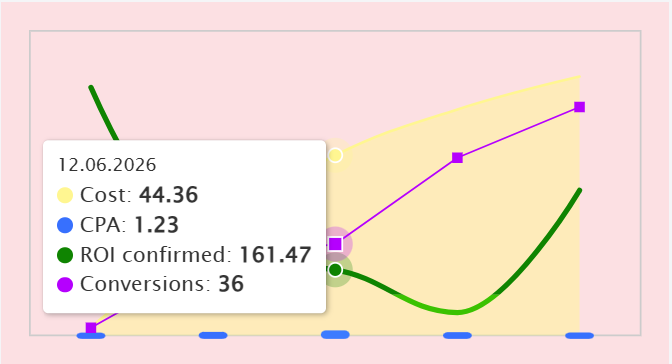
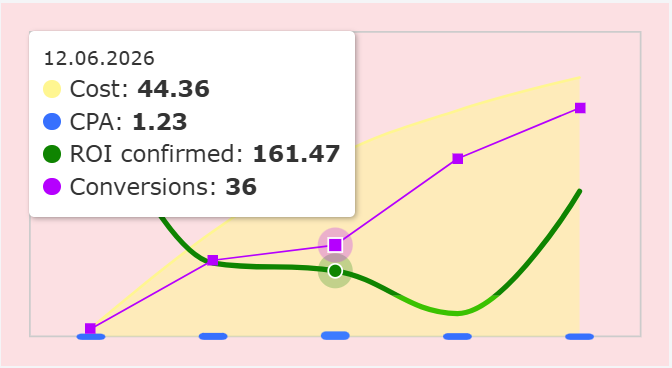
Improve fidelity, touch, keyboard and accessibility
- Tooltip text 13px with Verdana fallback so its size matches the recording
- Left-to-right reveal animation on first render (skipped for reduced motion / hidden tabs)
- Touch: tap shows the tooltip, tap outside hides it
- Keyboard: arrows/Home/End step through dates, Esc hides; aria-label and focus ring
- Pointer moves coalesced per animation frame; crisp square markers
- TypeScript declarations, more realistic random demo data

diff --git a/combo-chart.js b/combo-chart.js
@@ -17,10 +17,12 @@
     height: null,             // px. null → container height, or 175 if the container has none
     xSpacing: 'category',     // 'category' — equal steps between dates, 'time' — proportional to time
     utc: false,               // parse 'YYYY-MM-DD' strings and format dates in UTC
-    fontFamily: '"Lucida Grande", "Lucida Sans Unicode", Arial, Helvetica, sans-serif',
+    fontFamily: '"Lucida Grande", Verdana, "Lucida Sans Unicode", Arial, Helvetica, sans-serif',
     plotBorderColor: '#cccccc',
     plotBorderWidth: 1,
     cursor: 'pointer',
+    animation: { duration: 1000 }, // initial left-to-right reveal; false to disable
+    ariaLabel: null,          // accessible name; default is generated from series names
     yAxes: {},                // { <yAxis key>: { min, max } } — manual scale overrides
     tooltip: {
       enabled: true,
@@ -39,19 +41,20 @@
   };
 
   var CSS = [
-    '.cc-root{position:relative;width:100%;-webkit-tap-highlight-color:transparent;touch-action:pan-y}',
+    '.cc-root{position:relative;width:100%;-webkit-tap-highlight-color:transparent;touch-action:pan-y;outline:none}',
+    '.cc-root:focus-visible{box-shadow:0 0 0 2px #3770FE}',
     '.cc-svg{position:absolute;left:0;top:0;overflow:visible;display:block}',
     '.cc-graph{fill:none;stroke-linejoin:round;stroke-linecap:round;transition:stroke-width .25s ease}',
     '.cc-bar{transition:filter .15s ease}',
     '.cc-bar.cc-hover{filter:brightness(1.1)}',
     '.cc-tooltip{position:absolute;left:0;top:0;pointer-events:none;z-index:10;white-space:nowrap;',
-    'background:#fff;border-radius:3px;padding:8px;color:#333;font-size:12px;line-height:16px;',
+    'background:#fff;border-radius:3px;padding:8px;color:#333;font-size:13px;line-height:18px;',
     'box-shadow:1px 1px 3px rgba(0,0,0,.28),0 0 1px rgba(0,0,0,.12);opacity:0;visibility:hidden;',
     'transition:opacity .15s ease,visibility 0s linear .15s;will-change:transform}',
     '.cc-tooltip.cc-visible{opacity:1;visibility:visible;transition:opacity .15s ease,visibility 0s}',
-    '.cc-tt-date{font-size:10px;line-height:14px;margin-bottom:1px}',
-    '.cc-tt-row{display:flex;align-items:center;height:17px}',
-    '.cc-tt-dot{display:inline-block;width:9px;height:9px;border-radius:50%;margin-right:4px;flex:none}',
+    '.cc-tt-date{font-size:11px;line-height:15px;margin-bottom:1px}',
+    '.cc-tt-row{display:flex;align-items:center;height:18.5px}',
+    '.cc-tt-dot{display:inline-block;width:10px;height:10px;border-radius:50%;margin-right:5px;flex:none}',
     '.cc-tt-row b{font-weight:bold;margin-left:.3em}'
   ].join('');
 
@@ -262,6 +265,8 @@
     root.style.fontFamily = this.options.fontFamily;
     root.style.cursor = this.options.cursor;
     root.style.height = this.fluidHeight ? '100%' : (this.options.height || 175) + 'px';
+    root.tabIndex = 0;
+    root.setAttribute('role', 'img');
     this.container.appendChild(root);
 
     this.svg = el('svg', { 'class': 'cc-svg', xmlns: SVGNS }, root);
@@ -273,11 +278,33 @@
     this.ttPos = null;
     this.ttTarget = null;
 
-    this._onMove = function (e) { self._pointerMove(e); };
-    this._onLeave = function () { self._pointerLeave(); };
+    // Pointer moves are coalesced to one hover update per animation frame.
+    this._onMove = function (e) {
+      self.lastPointer = { x: e.clientX, y: e.clientY };
+      if (self.moveRaf) return;
+      self.moveRaf = requestAnimationFrame(function () {
+        self.moveRaf = null;
+        if (self.lastPointer) self._pointerMove(self.lastPointer.x, self.lastPointer.y);
+      });
+    };
+    this._onDown = function (e) {
+      if (e.pointerType !== 'mouse') self._pointerMove(e.clientX, e.clientY);
+    };
+    // A finger lifting off fires pointerleave; keep the tooltip until the user taps elsewhere.
+    this._onLeave = function (e) {
+      if (e.pointerType !== 'touch') { self.lastPointer = null; self._pointerLeave(); }
+    };
+    this._onDocDown = function (e) {
+      if (!root.contains(e.target)) self._pointerLeave();
+    };
+    this._onKey = function (e) { self._keyDown(e); };
+    this._onBlur = function () { if (self.keyboardHover) self._pointerLeave(); };
     root.addEventListener('pointermove', this._onMove);
-    root.addEventListener('pointerdown', this._onMove);
+    root.addEventListener('pointerdown', this._onDown);
     root.addEventListener('pointerleave', this._onLeave);
+    root.addEventListener('keydown', this._onKey);
+    root.addEventListener('blur', this._onBlur);
+    document.addEventListener('pointerdown', this._onDocDown);
 
     if (typeof ResizeObserver !== 'undefined') {
       this.resizeObserver = new ResizeObserver(function () {
@@ -428,10 +455,44 @@
     });
 
     this.hoverLayer = el('g', { 'class': 'cc-hover-layer' }, svg);
+    this._animateIn(seriesLayer, defs);
+    this.root.setAttribute('aria-label', o.ariaLabel || this._ariaLabel());
     if (this.hover.index >= 0) {
       if (this.hover.index >= this.times.length) this._pointerLeave();
       else this._applyHover(true);
     }
+  };
+
+  // Reveals the series from left to right on the first render only.
+  ComboChart.prototype._animateIn = function (layer, defs) {
+    var anim = this.options.animation, self = this;
+    if (this.animated || !this.times.length) return;
+    this.animated = true;
+    var reduced = typeof matchMedia === 'function' && matchMedia('(prefers-reduced-motion: reduce)').matches;
+    // Background tabs pause requestAnimationFrame, which would leave the series clipped away.
+    if (!anim || !anim.duration || reduced || document.hidden) return;
+    var id = this.id + '-reveal', pad = 20, W = this.width, H = this.height;
+    var clip = el('clipPath', { id: id }, defs);
+    var rect = el('rect', { x: -pad, y: -pad, width: 0, height: H + pad * 2 }, clip);
+    layer.setAttribute('clip-path', 'url(#' + id + ')');
+    var start = performance.now(), duration = anim.duration;
+    function frame(now) {
+      self.revealRaf = null;
+      if (!rect.isConnected) return; // re-rendered meanwhile
+      var t = Math.min(1, (now - start) / duration);
+      rect.setAttribute('width', (W + pad * 2) * (1 - Math.pow(1 - t, 3)));
+      if (t < 1) self.revealRaf = requestAnimationFrame(frame);
+      else layer.removeAttribute('clip-path');
+    }
+    this.revealRaf = requestAnimationFrame(frame);
+  };
+
+  ComboChart.prototype._ariaLabel = function () {
+    var names = this.series.map(function (s) { return s.name; }).join(', ');
+    var n = this.times.length;
+    if (!n) return 'Chart: ' + names + ', no data';
+    return 'Chart: ' + names + ', ' + n + ' dates from ' + this._dateText(this.times[0]) + ' to ' +
+      this._dateText(this.times[n - 1]) + '. Use left and right arrow keys to read values.';
   };
 
   ComboChart.prototype._draw_area = function (s, g, axis) {
@@ -501,7 +562,7 @@
       var m = s.markerSize;
       s.points.forEach(function (p) {
         if (p.value === null) return;
-        el('rect', { x: p.x - m / 2, y: p.y - m / 2, width: m, height: m, fill: s.color }, g);
+        el('rect', { x: Math.round(p.x - m / 2), y: Math.round(p.y - m / 2), width: m, height: m, fill: s.color }, g);
       });
     }
   };
@@ -513,11 +574,12 @@
 
   // ---------- interaction ----------
 
-  ComboChart.prototype._pointerMove = function (e) {
+  ComboChart.prototype._pointerMove = function (clientX, clientY) {
     if (!this.times.length || !this.scales) return;
     var rect = this.root.getBoundingClientRect();
-    var mx = e.clientX - rect.left, my = e.clientY - rect.top;
+    var mx = clientX - rect.left, my = clientY - rect.top;
     if (mx < 0 || my < 0 || mx > this.width || my > this.height) return this._pointerLeave();
+    this.keyboardHover = false;
 
     var xs = this.scales.xs, index = 0, best = Infinity;
     for (var i = 0; i < xs.length; i++) {
@@ -543,10 +605,35 @@
       });
     }
 
-    var changed = index !== this.hover.index || hovered !== this.hover.series;
-    this.hover = { index: index, series: hovered, mx: mx, my: my };
+    this._setHover(index, hovered, mx, my);
+  };
+
+  ComboChart.prototype._setHover = function (index, series, mx, my) {
+    var changed = index !== this.hover.index || series !== this.hover.series;
+    this.hover = { index: index, series: series, mx: mx, my: my };
     if (changed) this._applyHover(false);
     if (this.options.tooltip.enabled) this._showTooltip(changed);
+  };
+
+  // Arrow keys step through dates, Home/End jump to the ends, Escape hides the tooltip.
+  ComboChart.prototype._keyDown = function (e) {
+    var n = this.times.length;
+    if (!n || !this.scales) return;
+    var index = this.hover.index, next;
+    if (e.key === 'ArrowRight') next = index < 0 ? 0 : Math.min(n - 1, index + 1);
+    else if (e.key === 'ArrowLeft') next = index < 0 ? n - 1 : Math.max(0, index - 1);
+    else if (e.key === 'Home') next = 0;
+    else if (e.key === 'End') next = n - 1;
+    else if (e.key === 'Escape') { this._pointerLeave(); return; }
+    else return;
+    e.preventDefault();
+    var sum = 0, count = 0;
+    this.series.forEach(function (s) {
+      var p = s.points[next];
+      if (p && p.value !== null) { sum += p.y; count++; }
+    });
+    this.keyboardHover = true;
+    this._setHover(next, null, this.scales.xs[next], count ? sum / count : this.height / 2);
   };
 
   ComboChart.prototype._pointerLeave = function () {
@@ -595,6 +682,11 @@
     return (s.valuePrefix || '') + v.toFixed(decimals) + (s.valueSuffix || '');
   };
 
+  ComboChart.prototype._dateText = function (time) {
+    var fmt = this.options.tooltip.dateFormat;
+    return fmt ? fmt(new Date(time)) : defaultDateFormat(new Date(time), this.options.utc, this.hasTime);
+  };
+
   ComboChart.prototype._tooltipHtml = function (index) {
     var self = this, o = this.options.tooltip, date = new Date(this.times[index]);
     var points = this.series.map(function (s) {
@@ -604,7 +696,7 @@
     if (typeof o.formatter === 'function') {
       return o.formatter({ date: date, time: this.times[index], index: index, points: points });
     }
-    var dateText = o.dateFormat ? o.dateFormat(date) : defaultDateFormat(date, this.options.utc, this.hasTime);
+    var dateText = this._dateText(this.times[index]);
     var html = '<div class="cc-tt-date">' + escapeHtml(dateText) + '</div>';
     points.forEach(function (p) {
       if (p.value === null) return;
@@ -663,10 +755,15 @@
   ComboChart.prototype.destroy = function () {
     clearTimeout(this.hideTimer);
     if (this.raf) cancelAnimationFrame(this.raf);
+    if (this.moveRaf) cancelAnimationFrame(this.moveRaf);
+    if (this.revealRaf) cancelAnimationFrame(this.revealRaf);
+    document.removeEventListener('pointerdown', this._onDocDown);
+    this.root.removeEventListener('keydown', this._onKey);
+    this.root.removeEventListener('blur', this._onBlur);
     if (this.resizeObserver) this.resizeObserver.disconnect();
     if (this._onResize) window.removeEventListener('resize', this._onResize);
     this.root.removeEventListener('pointermove', this._onMove);
-    this.root.removeEventListener('pointerdown', this._onMove);
+    this.root.removeEventListener('pointerdown', this._onDown);
     this.root.removeEventListener('pointerleave', this._onLeave);
     if (this.root.parentNode) this.root.parentNode.removeChild(this.root);
   };

diff --git a/combo-chart.d.ts b/combo-chart.d.ts
@@ -1,0 +1,98 @@
+export type TimeValue = number | string | Date;
+
+export type DataPoint =
+  | [TimeValue, number | null]
+  | { x?: TimeValue; time?: TimeValue; date?: TimeValue; t?: TimeValue; y?: number | null; value?: number | null; v?: number | null };
+
+export type SeriesType = 'area' | 'bar' | 'spline' | 'line';
+
+export interface BaseSeriesOptions {
+  name?: string;
+  color?: string;
+  data?: DataPoint[];
+  /** Series with the same key share a Y scale. Defaults: area 0, bar 0, spline 1, line 2. */
+  yAxis?: string | number;
+  decimals?: number;
+  valuePrefix?: string;
+  valueSuffix?: string;
+  valueFormatter?: (value: number) => string;
+}
+
+export interface AreaSeriesOptions extends BaseSeriesOptions {
+  lineWidth?: number;
+  hoverLineWidth?: number;
+  fillOpacity?: number;
+  smooth?: boolean;
+}
+
+export interface BarSeriesOptions extends BaseSeriesOptions {
+  widthRatio?: number;
+  maxWidth?: number;
+  radius?: number;
+  overhang?: number;
+}
+
+export interface SplineSeriesOptions extends BaseSeriesOptions {
+  lineWidth?: number;
+  hoverLineWidth?: number;
+  threshold?: number | null;
+  negativeColor?: string | null;
+}
+
+export interface LineSeriesOptions extends BaseSeriesOptions {
+  lineWidth?: number;
+  hoverLineWidth?: number;
+  markerSize?: number;
+}
+
+export type SeriesOptions =
+  | ({ type: 'area' } & AreaSeriesOptions)
+  | ({ type: 'bar' } & BarSeriesOptions)
+  | ({ type: 'spline' } & SplineSeriesOptions)
+  | ({ type: 'line' } & LineSeriesOptions);
+
+export interface TooltipPoint {
+  series: SeriesOptions;
+  name: string;
+  value: number | null;
+  color: string;
+}
+
+export interface TooltipOptions {
+  enabled?: boolean;
+  distance?: number;
+  hideDelay?: number;
+  dateFormat?: ((date: Date) => string) | null;
+  formatter?: ((ctx: { date: Date; time: number; index: number; points: TooltipPoint[] }) => string) | null;
+}
+
+export interface ComboChartOptions {
+  height?: number | null;
+  xSpacing?: 'category' | 'time';
+  utc?: boolean;
+  fontFamily?: string;
+  plotBorderColor?: string;
+  plotBorderWidth?: number;
+  cursor?: string;
+  animation?: false | { duration: number };
+  ariaLabel?: string | null;
+  yAxes?: Record<string, { min?: number; max?: number }>;
+  tooltip?: TooltipOptions;
+  series?: SeriesOptions[];
+  area?: AreaSeriesOptions | DataPoint[];
+  bar?: BarSeriesOptions | DataPoint[];
+  spline?: SplineSeriesOptions | DataPoint[];
+  line?: LineSeriesOptions | DataPoint[];
+}
+
+declare class ComboChart {
+  constructor(target: string | HTMLElement, options?: ComboChartOptions);
+  static create(target: string | HTMLElement, options?: ComboChartOptions): ComboChart;
+  setSeries(series: SeriesOptions[], redraw?: boolean): this;
+  setData(nameOrIndex: string | number, data: DataPoint[]): this;
+  update(options: ComboChartOptions): this;
+  render(): void;
+  destroy(): void;
+}
+
+export default ComboChart;

diff --git a/index.html b/index.html
@@ -24,7 +24,7 @@
 <body>
 <main>
   <h1>ComboChart</h1>
-  <p>Четыре временных ряда на одном графике: area, bar, spline, line. Наведите курсор на график.</p>
+  <p>Четыре временных ряда на одном графике: area, bar, spline, line. Наведите курсор на график, коснитесь его на телефоне или перейдите на него клавишей Tab и листайте даты стрелками ← →.</p>
 
   <h2>1. Как на записи</h2>
   <div class="cell"><div id="chart-reference"></div></div>
@@ -66,14 +66,16 @@ const chart = new ComboChart('#chart-reference', {
   function randomSeries(days) {
     const start = new Date(2026, 5, 1);
     const cost = [], cpa = [], roi = [], conv = [];
-    let c = 5, r = 300, n = 10;
+    const jitter = (amp) => (Math.random() - 0.5) * 2 * amp;
+    const phase = Math.random() * Math.PI * 2;
     for (let i = 0; i < days; i++) {
       const d = new Date(start.getFullYear(), start.getMonth(), start.getDate() + i);
-      c = Math.max(1, c + Math.random() * 6 - 1.5);
-      r = Math.max(10, r + (Math.random() - 0.5) * 180);
-      n = Math.max(0, Math.round(n + (Math.random() - 0.4) * 12));
+      // Cumulative-looking cost and conversions, CPA derived from them, ROI oscillating around 100%+
+      const c = Math.max(1, 2 + i * 2.1 + jitter(3));
+      const n = Math.max(1, Math.round(3 + i * 2.8 + jitter(6)));
+      const r = Math.max(20, 220 + 170 * Math.sin(i / 3.5 + phase) + jitter(40));
       cost.push([d, +c.toFixed(2)]);
-      cpa.push([d, +(c / Math.max(n, 1)).toFixed(2)]);
+      cpa.push([d, +(c / n).toFixed(2)]);
       roi.push([d, +r.toFixed(2)]);
       conv.push([d, n]);
     }

diff --git a/README.md b/README.md
@@ -11,11 +11,14 @@
 
 ![preview](docs/preview.png)
 
-- Чистый JS + SVG, **без зависимостей**, один файл `combo-chart.js` (~28 КБ, без минификации).
+- Чистый JS + SVG, **без зависимостей**, один файл `combo-chart.js` (~34 КБ без минификации).
 - Общий тултип для всех рядов: дата, цветные точки, значения жирным; плавно «едет» за курсором, исчезает через 500 мс после ухода мыши.
 - Ховер: полупрозрачные ореолы на точках всех рядов под курсором, ближайший столбик подсвечивается. Когда курсор ближе всего к зелёной кривой, она становится тонкой (как на записи), иначе — толстая.
 - У каждого ряда своя шкала Y (кроме `bar`, который по умолчанию делит шкалу с `area`), осей и сетки нет — только рамка поля.
-- Резиновый: перерисовывается при изменении размера контейнера. Работает с мышью и тачем.
+- Резиновый: перерисовывается при изменении размера контейнера.
+- Появляется с анимацией слева направо (отключается, если в системе включено «уменьшить движение»).
+- Мышь, тач (тап показывает тултип, тап мимо — скрывает) и клавиатура: `Tab` на график, `←` `→` по датам, `Home`/`End`, `Esc`. Есть `aria-label` для скринридеров.
+- Типы для TypeScript: `combo-chart.d.ts`.
 
 ## Быстрый старт
 
@@ -132,7 +135,9 @@ function Chart({ cost, cpa, roi, conversions }) {
 | `height` | `null` | высота в px; `null` — высота контейнера или 175 |
 | `xSpacing` | `'category'` | `'category'` — равный шаг между датами (как на записи), `'time'` — пропорционально времени |
 | `utc` | `false` | разбирать `YYYY-MM-DD` и форматировать даты в UTC |
-| `fontFamily` | `"Lucida Grande", "Lucida Sans Unicode", Arial, Helvetica, sans-serif` | шрифт тултипа |
+| `fontFamily` | `"Lucida Grande", Verdana, "Lucida Sans Unicode", Arial, Helvetica, sans-serif` | шрифт тултипа |
+| `animation` | `{ duration: 1000 }` | появление при первой отрисовке; `false` — без анимации |
+| `ariaLabel` | `null` | подпись для скринридеров; по умолчанию собирается из названий рядов и дат |
 | `plotBorderColor` / `plotBorderWidth` | `#cccccc` / `1` | рамка поля (`0` — без рамки) |
 | `yAxes` | `{}` | ручные границы шкал: `{ 0: { min: 0, max: 100 } }` (ключ = `yAxis` ряда) |
 | `tooltip.enabled` | `true` | |
